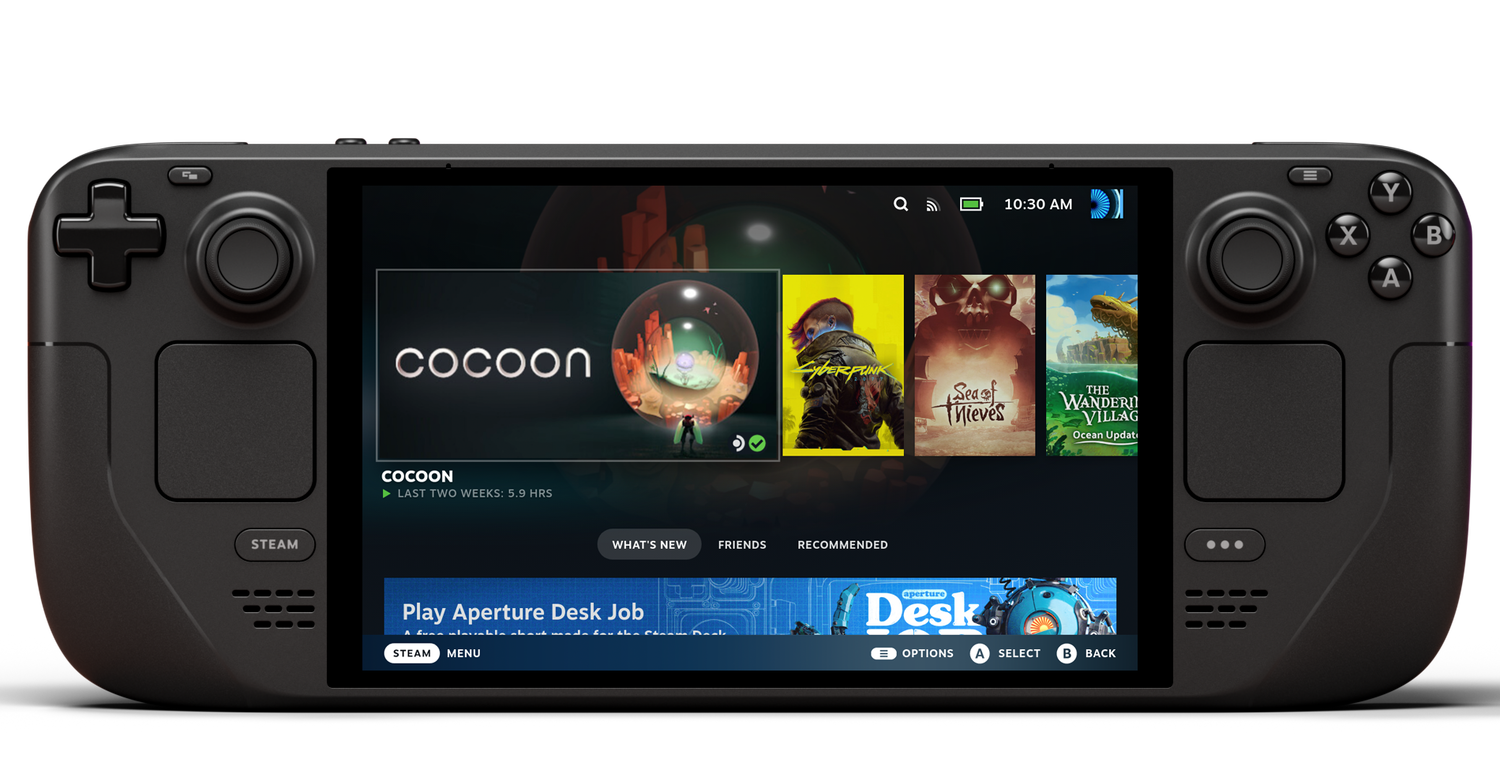
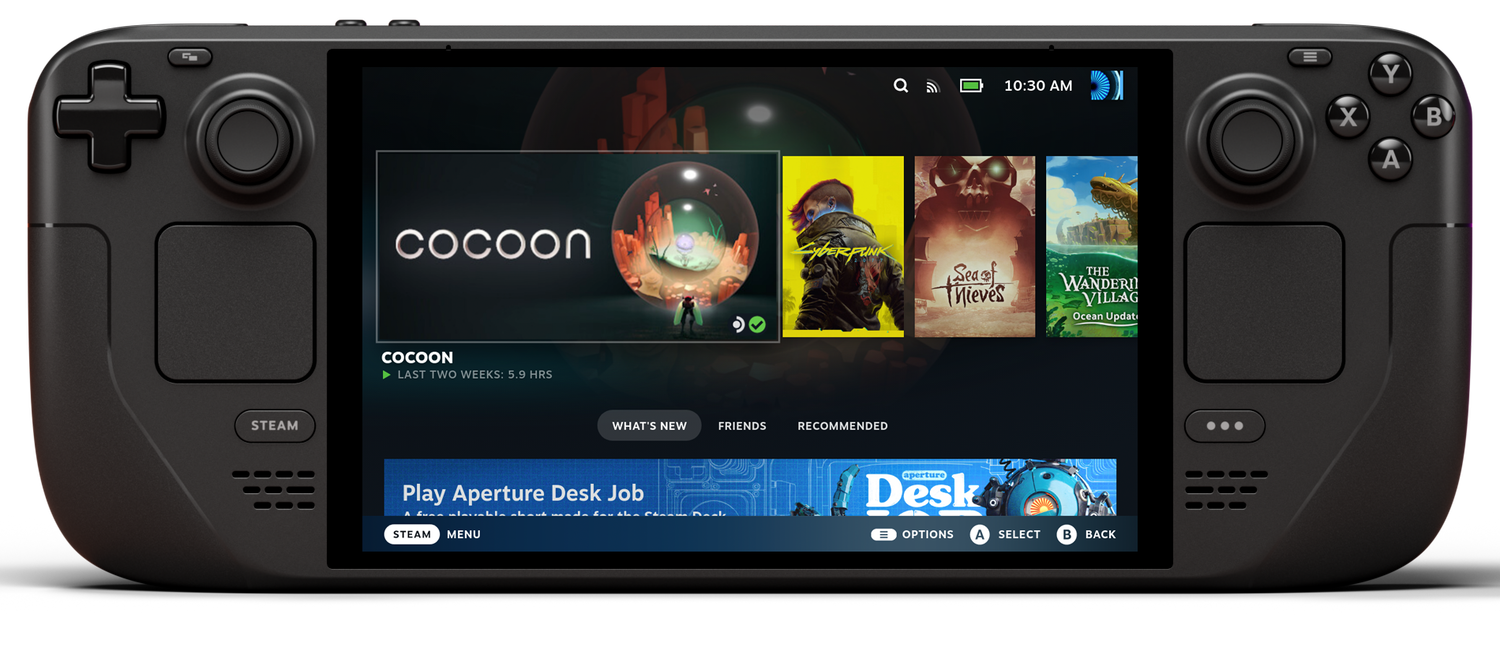
Pitch: Deck back to full size (tight crop, shadow kept), phone sized exactly to the Deck body and bottom-aligned, 'Download Mac build' actions

diff --git a/sightline-pitch.html b/sightline-pitch.html
@@ -111,15 +111,16 @@
   .trailer.playing .play{display:none}
   /* product / devices: Valve's Steam Deck OLED press render and Apple's iPhone 17 Pro product bezel, with the
      game's own clips sitting exactly on their screens. The screen rectangles are measured from the PNGs. */
-  .devices{display:grid; grid-template-columns:1.6fr .6fr; gap:clamp(18px,3vw,48px); align-items:stretch}
+  .devices{display:grid; grid-template-columns:1.75fr .5fr; gap:clamp(18px,3vw,48px); align-items:end}
   .dev{position:relative; display:flex; flex-direction:column; justify-content:flex-end}
   .dev .frame{position:relative}
-  .dev.phone .frame{flex:1 1 auto; min-height:0; aspect-ratio:1350/2760; width:auto; margin:0 auto; max-width:100%}
-  .dev.phone .frame .shell{height:100%; width:auto; max-width:100%}
+  .dev.phone .frame{aspect-ratio:1350/2760; width:min(300px,100%); margin:0 auto}
+  .dev.phone .frame .shell{width:100%; height:auto}
+  .dev.phone.sized .frame{width:auto; height:var(--ph)} .dev.phone.sized .frame .shell{height:100%; width:auto}
   .dev .shell{position:relative; display:block; width:100%; height:auto; z-index:1; pointer-events:none}
   .dev .scr{position:absolute; overflow:hidden; background:#000}
   .dev .scr video,.dev .scr img{width:100%; height:100%; object-fit:cover; display:block}
-  .dev.deck .scr{left:24.21%; top:23.98%; width:51.68%; height:62.76%; z-index:2}             /* the OLED panel in the render (crop 300..2200 × 0..980 of Valve's 2500×980 PNG, shadow included) */
+  .dev.deck .scr{left:24.21%; top:10.3%; width:51.68%; height:74.55%; z-index:2}              /* the OLED panel in the render (crop 300..2200 × 150..975 of Valve's 2500×980 PNG: body 182..908 + shadow) */
   .dev.phone{width:100%}
   .dev.phone .scr{left:5.33%; top:2.5%; width:89.33%; height:94.96%; border-radius:12% / 6%; z-index:0; background:#fbf8f1}   /* the bezel's full screen opening (measured from the PNG), behind its transparent cut-out */
   .dev .lbl{font-family:var(--mono); font-size:10.5px; letter-spacing:.2em; text-transform:uppercase; color:rgba(255,255,255,.65); margin-top:16px; text-align:center}
@@ -188,7 +189,7 @@
   /* reveal */
   .rv{opacity:0; transform:translateY(22px); transition:opacity .6s ease, transform .6s cubic-bezier(.22,.61,.36,1)}
   .rv.in{opacity:1; transform:none}
-  @media (max-width:980px){ .hero{grid-template-columns:1fr} .scout{grid-template-columns:1fr 1fr} .dev.phone .frame{flex:none; height:auto; width:min(280px,100%)} .dev.phone .frame .shell{width:100%; height:auto} .demo{grid-template-columns:1fr} .devices{grid-template-columns:1fr} .platgrid{grid-template-columns:repeat(3,1fr)} .feat{grid-template-columns:1fr 1fr} .status{grid-template-columns:1fr} .who{grid-template-columns:1fr} .mechs{grid-template-columns:1fr 1fr} .shots.mobile{grid-template-columns:repeat(3,1fr)} .needs{grid-template-columns:1fr 1fr} }
+  @media (max-width:980px){ .hero{grid-template-columns:1fr} .scout{grid-template-columns:1fr 1fr} .dev.phone.sized .frame{height:auto; width:min(280px,100%)} .dev.phone.sized .frame .shell{width:100%; height:auto} .demo{grid-template-columns:1fr} .devices{grid-template-columns:1fr} .platgrid{grid-template-columns:repeat(3,1fr)} .feat{grid-template-columns:1fr 1fr} .status{grid-template-columns:1fr} .who{grid-template-columns:1fr} .mechs{grid-template-columns:1fr 1fr} .shots.mobile{grid-template-columns:repeat(3,1fr)} .needs{grid-template-columns:1fr 1fr} }
   @media (max-width:600px){ .board{--t:44px} .scout{grid-template-columns:1fr} .mechs{grid-template-columns:1fr} .shots{grid-template-columns:1fr 1fr} .shots.mobile{grid-template-columns:repeat(2,1fr)} .checks{grid-template-columns:1fr} .platgrid{grid-template-columns:1fr 1fr} .feat{grid-template-columns:1fr} .needs{grid-template-columns:1fr} .deck{padding:12px 44px} .deck::before,.deck::after{width:24px;height:24px} .deck::before{left:10px} .deck::after{right:10px} .meters{grid-template-columns:1fr} }
   @media (prefers-reduced-motion: reduce){ .rv{opacity:1; transform:none; transition:none} .dev.phone.rv.in .frame{animation:none} .shot{transition:none} .cell,.beam{transition:none} .cell.pulse{animation:none} .meter .bar i{transition:none} }
   /* print: the PDF version. Static, white, no video, each chapter on its own page. */
@@ -228,7 +229,7 @@
       <p class="sub rv" data-hit>Every puzzle has a logical solution. <b style="color:var(--gold);font-weight:600">No guessing. No luck. Just deduction.</b></p>
       <div class="actions rv" data-hit>
         <a class="solid" href="#trailer" data-link="trailer"><span class="ic"></span>Watch trailer</a>
-        <a href="#" data-link="build">Play publisher build</a>
+        <a href="#" data-link="build">Download Mac build</a>
         <a href="#" data-link="pdf">Download PDF</a>
       </div>
     </div>
@@ -320,7 +321,7 @@
     <div class="devices">
       <div class="dev deck rv" data-hit>
         <div class="frame"><div class="scr"><video src="pitch/clips/deck.mp4" poster="pitch/clips/mirrors.jpg" autoplay muted loop playsinline preload="metadata" aria-label="Sightline running on Steam Deck"></video><img class="print-only" src="pitch/clips/mirrors.jpg" alt=""></div>
-        <img class="shell" src="pitch/devices/steam-deck-oled.png" alt="Steam Deck OLED" width="1500" height="774" loading="lazy"></div>
+        <img class="shell" src="pitch/devices/steam-deck-oled.png" alt="Steam Deck OLED" width="1500" height="651" loading="lazy"></div>
         <div class="lbl">Steam Deck · Steam · Windows · macOS</div>
       </div>
       <div class="dev phone rv" data-hit>
@@ -474,7 +475,7 @@
     <h2 class="rv" data-hit>Every number can see something.</h2>
     <p class="sub rv" data-hit style="margin:0 auto">Sightline is substantially complete and available to play now. I’d love to hear what you think.</p>
     <div class="actions rv" data-hit>
-      <a class="solid" href="#" data-link="build">Play publisher build</a>
+      <a class="solid" href="#" data-link="build">Download Mac build</a>
       <a href="#trailer" data-link="trailer"><span class="ic"></span>Watch trailer</a>
       <a href="#" data-link="pdf">Download PDF</a>
       <a href="mailto:yoni@yumloop.net?subject=Sightline" data-link="contact">Contact</a>
@@ -527,6 +528,10 @@
     if(url){ a.href = url; if(/^https?:/.test(url) || k === 'pdf'){ a.target = '_blank'; a.rel = 'noopener'; } if(k === 'pdf'){ a.removeAttribute('target'); } }
     else { a.href = 'mailto:yoni@yumloop.net?subject=' + encodeURIComponent('Sightline — ' + a.textContent.trim()); a.classList.remove('solid'); a.classList.add('muted'); a.title = 'Sent on request'; if(a.closest('.actions')) a.textContent = a.textContent.trim() + ' · on request'; }
   });
+  // ---- phone = exactly the Deck body's height, bottoms aligned (the Deck PNG carries 3.9% air above the body and 8.1% shadow below)
+  (function(){ var deck = document.querySelector('.dev.deck .shell'), phone = document.querySelector('.dev.phone'); if(!deck || !phone) return;
+    function size(){ if(innerWidth <= 980){ phone.classList.remove('sized'); phone.style.removeProperty('--ph'); phone.querySelector('.frame').style.marginBottom = ''; return; } var h = deck.getBoundingClientRect().height; if(!h) return; phone.classList.add('sized'); phone.style.setProperty('--ph', (h * 0.88) + 'px'); phone.querySelector('.frame').style.marginBottom = (h * 0.081) + 'px'; }
+    size(); addEventListener('resize', size); deck.addEventListener('load', size); setTimeout(size, 600); })();
   // ---- trailer
   var v = document.getElementById('trailerVideo'), box = document.getElementById('trailerBox');
   function playTrailer(){ try { v.play(); box.classList.add('playing'); } catch(_){} }
